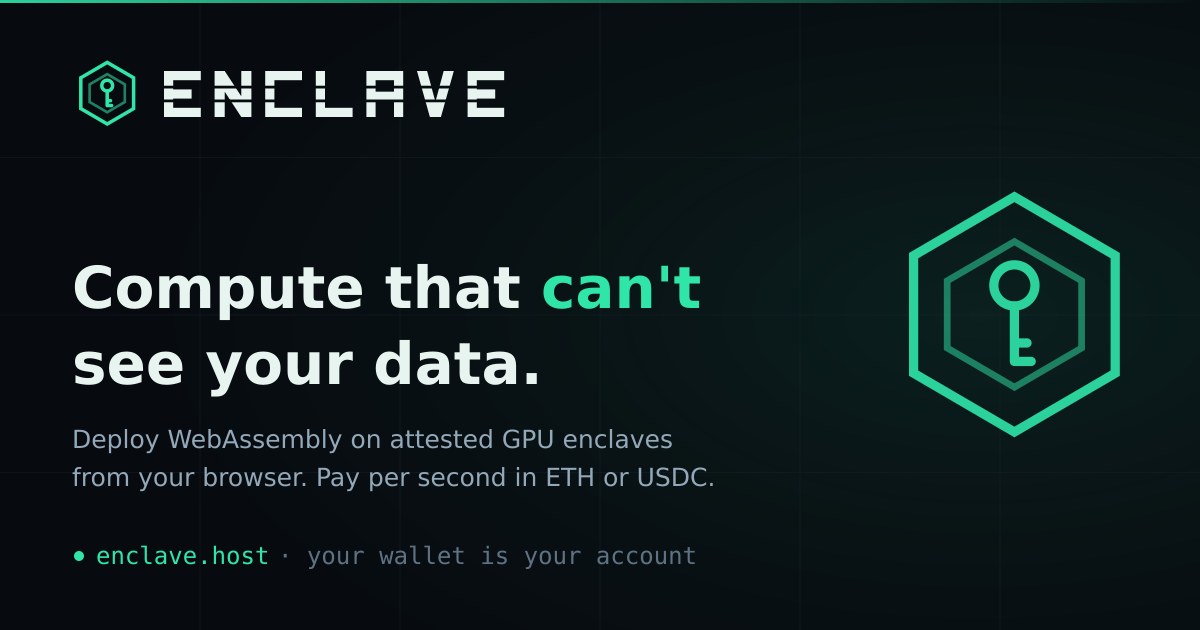
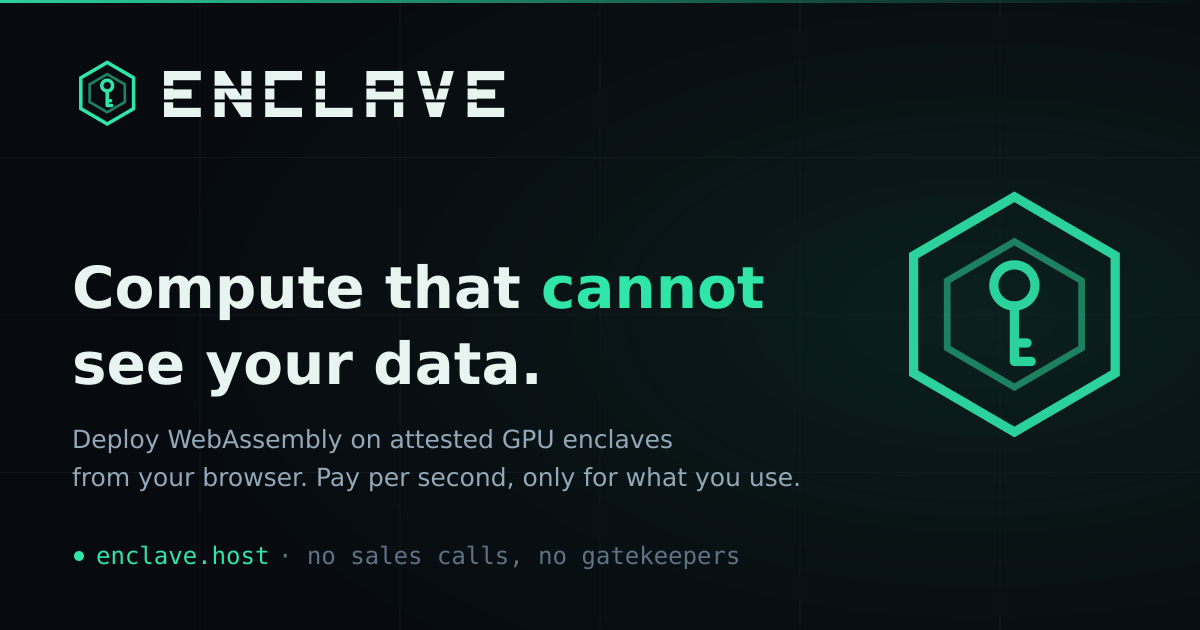
site: de-crypto the marketing surfaces
Crypto/wallet vocabulary reads as scam-signal to a mainstream visitor, so
the marketing layer stops leading with it: hero, why-card (Crypto-native
-> Pay-as-you-go), pricing head/body, flow step titles + visible
descriptions, ticker items, footer tagline, store intro, page metadata,
JSON-LD, and the OG card image (re-rendered) now talk about per-second
pay-as-you-go, passkey sign-in, and public records. The honesty stays:
payments final, prepaid runtime, publisher shares.

Unchanged on purpose: the developer docs, the publish form, and the
deploy console keep their accurate wallet/USDC mechanics - those surfaces
describe real controls for people already using them; only the pitch
stops assuming the reader wants crypto.

Changed region(s): [[0.4317, 0.7238, 0.6783, 0.7841], [0.2467, 0.8746, 0.6167, 0.9048], [0.5242, 0.4222, 0.6475, 0.5127]]

diff --git a/site/index.html b/site/index.html
@@ -6,7 +6,7 @@
 <meta name="color-scheme" content="dark" />
 <meta name="theme-color" content="#070A0F" />
 <title>Enclave · Confidential GPU Compute That Cannot See Your Data</title>
-<meta name="description" content="Compute that cannot see your data. Deploy a WebAssembly app onto a verifiable, attested enclave equipped with a flagship NVIDIA GPU, straight from your browser: pay in ETH or USDC, and verify the enclave yourself. No sales calls, no gatekeepers. Built and operated by Enclave Host, Inc." />
+<meta name="description" content="Compute that cannot see your data. Deploy a WebAssembly app onto a verifiable, attested enclave equipped with a flagship NVIDIA GPU, straight from your browser: pay per second, only for what you use, and verify the enclave yourself. No sales calls, no gatekeepers. Built and operated by Enclave Host, Inc." />
 <link rel="canonical" href="https://enclave.host/" />
 <meta name="robots" content="index,follow,max-image-preview:large" />
 <meta property="og:site_name" content="Enclave" />
@@ -14,7 +14,7 @@
 <meta property="og:type" content="website" />
 <meta property="og:url" content="https://enclave.host/" />
 <meta property="og:title" content="Enclave · Compute That Cannot See Your Data" />
-<meta property="og:description" content="Attested GPU enclaves for everyone, not just the Fortune 500. Deploy a WebAssembly app straight from your browser, pay per second in ETH or USDC, and verify the enclave yourself before sending a byte." />
+<meta property="og:description" content="Attested GPU enclaves for everyone, not just the Fortune 500. Deploy a WebAssembly app straight from your browser, pay per second for exactly what you use, and verify the enclave yourself before sending a byte." />
 <meta property="og:image" content="https://enclave.host/assets/og.png" />
 <meta property="og:image:width" content="1200" />
 <meta property="og:image:height" content="630" />
@@ -80,7 +80,7 @@
       "@id": "https://enclave.host/#website",
       "url": "https://enclave.host/",
       "name": "Enclave",
-      "description": "Compute that cannot see your data: deploy WebAssembly apps onto verifiable, attested confidential enclaves with flagship NVIDIA GPUs, paid per second in ETH or USDC.",
+      "description": "Compute that cannot see your data: deploy WebAssembly apps onto verifiable, attested confidential enclaves with flagship NVIDIA GPUs, paid per second.",
       "publisher": { "@id": "https://enclave.host/#org" }
     },
     {
@@ -91,7 +91,7 @@
       "provider": { "@id": "https://enclave.host/#org" },
       "url": "https://enclave.host/",
       "areaServed": "Worldwide",
-      "description": "On-demand attested enclaves with CPU and GPU confidential computing, running WebAssembly apps with GPU shares metered per second and paid on-chain in ETH or USDC.",
+      "description": "On-demand attested enclaves with CPU and GPU confidential computing, running WebAssembly apps with GPU shares metered and paid per second.",
       "offers": [
         {
           "@type": "Offer",
@@ -119,7 +119,7 @@
     <div class="hero-copy">
       <span class="eyebrow">Trustless, attested enclaves · API v1</span>
       <h1>Compute that <span class="hl">cannot</span><br>see your&nbsp;data.</h1>
-      <p class="lede">The hardware that used to hide behind enterprise sales calls is now one click away: deploy a <b>WebAssembly app</b> onto a confidential enclave equipped with a <b>flagship NVIDIA GPU</b>, straight from your browser. Pay per second in <b>ETH or USDC</b>. Your wallet is your account. Then check the cryptographic attestation <b>yourself</b> before you send a single byte of data.</p>
+      <p class="lede">The hardware that used to hide behind enterprise sales calls is now one click away: deploy a <b>WebAssembly app</b> onto a confidential enclave equipped with a <b>flagship NVIDIA GPU</b>, straight from your browser. Pay <b>per second</b>, only while it runs: no subscription, no minimums. Then check the cryptographic attestation <b>yourself</b> before you send a single byte of data.</p>
       <div class="hero-cta">
         <a href="apps" class="btn btn-primary">Deploy an app <span class="arr" aria-hidden="true">→</span></a>
         <a href="develop#api" class="btn btn-ghost">Read the API</a>
@@ -143,7 +143,7 @@
 <section id="why" data-view="overview" aria-label="Principles">
   <div class="wrap">
     <c-section-head eyebrow="The model" heading="Don't trust the operator. Measure it.">
-      <p>Enclave runs your WebAssembly app inside a hardware-isolated, attested enclave with a confidential GPU wired into it, so the operator can't read your memory, your keys, or your traffic, and you don't have to take our word for it. Every claim on this page is something you can check on-chain or in a signed attestation. We're equally explicit about the part that <i>isn't</i> hardware-enforced: how tenants are kept apart from each other on a shared GPU. <a href="#isolation">See exactly how isolation works ↓</a></p>
+      <p>Enclave runs your WebAssembly app inside a hardware-isolated, attested enclave with a confidential GPU wired into it, so the operator can't read your memory, your keys, or your traffic, and you don't have to take our word for it. Every claim on this page is something you can check yourself, in a signed attestation or a public record. We're equally explicit about the part that <i>isn't</i> hardware-enforced: how tenants are kept apart from each other on a shared GPU. <a href="#isolation">See exactly how isolation works ↓</a></p>
     </c-section-head>
     <div class="cards">
       <div class="card jade">
@@ -154,9 +154,9 @@
       </div>
       <div class="card iris">
         <div class="ic"><svg viewBox="0 0 24 24" fill="none" stroke="currentColor" stroke-width="1.7"><circle cx="12" cy="12" r="9"/><path d="M12 7v10M9.5 9.5h4a1.8 1.8 0 010 3.6H10a1.8 1.8 0 000 3.6h4.5"/></svg></div>
-        <span class="tag">wallet-native</span>
-        <h3>Crypto-native</h3>
-        <p>Your wallet is your account and nothing is custodied: every payment forwards in the same transaction - to Enclave, and for paid apps the publisher's share straight to their wallet; the contract never holds funds. It buys prepaid runtime, burned per second while your deployment runs. Payments are final: unspent time survives a stop but can't be withdrawn, so fund small and top up as you go.</p>
+        <span class="tag">pay-per-second</span>
+        <h3>Pay-as-you-go</h3>
+        <p>No subscription, no seats, no sales call: sign in with a passkey and add credit, or bring your own keys and pay directly. Either way a payment buys prepaid runtime, burned per second while your deployment runs, and for paid apps the publisher's share is delivered the same instant. Payments are final: unspent time survives a stop but can't be withdrawn, so fund small and top up as you go.</p>
       </div>
       <div class="card jade">
         <div class="ic"><svg viewBox="0 0 24 24" fill="none" stroke="currentColor" stroke-width="1.7"><rect x="3" y="5" width="18" height="14" rx="2"/><path d="M7 9l3 3-3 3M13 15h4"/></svg></div>
@@ -177,7 +177,7 @@
 <section id="how" data-view="overview" style="background:var(--bg-1);border-top:1px solid var(--line-soft);border-bottom:1px solid var(--line-soft);" aria-label="How it works">
   <div class="wrap">
     <c-section-head eyebrow="Lifecycle" heading="Five calls, start to finish.">
-      <p>The path from an empty wallet to a verified GPU endpoint. Click a step to see exactly what crosses the wire.</p>
+      <p>The path from zero to a verified GPU endpoint. Click a step to see exactly what crosses the wire.</p>
     </c-section-head>
     <c-flow></c-flow>
   </div>
@@ -233,8 +233,8 @@
 <!-- ===================== PRICING ===================== -->
 <section id="pricing" data-view="overview" style="background:var(--bg-1);border-top:1px solid var(--line-soft);border-bottom:1px solid var(--line-soft);" aria-label="Pricing">
   <div class="wrap">
-    <c-section-head eyebrow="Pricing" heading="Metered per second. Paid on-chain.">
-      <p>Deploying is <b>two dials</b> - what you rent - and <b>two rates</b> - what you pay. USDC or ETH up front buys runtime by the second; the instance runs until that time is used up, and you top up to extend it. Nothing is custodied - payments forward in the same transaction, to Enclave and, for apps that charge a publisher fee, that share straight to the publisher's wallet - and are final. Unspent time stays on the deployment's on-chain record (stop now, resume later) but isn't withdrawable, so fund in small top-ups.</p>
+    <c-section-head eyebrow="Pricing" heading="Metered per second. Pay as you go.">
+      <p>Deploying is <b>two dials</b> - what you rent - and <b>two rates</b> - what you pay. Prepaying buys runtime by the second; the instance runs until that time is used up, and you top up to extend it. Payments convert straight into runtime - for apps that charge a publisher fee, that share goes straight to the publisher - and are final. Unspent time stays on the deployment's public record (stop now, resume later) but isn't withdrawable, so fund in small top-ups.</p>
     </c-section-head>
 
     <div class="price-grid">
@@ -262,7 +262,7 @@
     <div class="contract-foot"><a class="contract-link" id="priceAddrLink" target="_blank" rel="noopener" aria-label="View the EnclaveDeployments contract on Basescan"><svg viewBox="0 0 24 24" fill="none" stroke="currentColor" stroke-width="2" stroke-linecap="round" stroke-linejoin="round" aria-hidden="true"><path d="M14 2H6a2 2 0 0 0-2 2v16a2 2 0 0 0 2 2h12a2 2 0 0 0 2-2V8z"/><polyline points="14 2 14 8 20 8"/><line x1="8" y1="13" x2="16" y2="13"/><line x1="8" y1="17" x2="13" y2="17"/></svg> contract</a></div>
 
     <div class="price-formula"><code>price = GPU% × $<span data-live-price="unit-hr" data-gpu="100">6</span>/hr &nbsp;+&nbsp; CPU% × $<span data-live-price="unit-hr" data-cpu="100">3</span>/hr &nbsp;·&nbsp; metered per second</code></div>
-    <p class="mig-note" style="margin-top:10px;">One honest rounding note: the per-second rate is settled in whole millionths of a USDC, rounded up - so the very smallest slices meter a hair above the formula (a 1%-CPU app runs at $<span data-live-price="hr4" data-cpu="1">0.0324</span>/hr rather than $<span data-live-price="lin-hr4" data-cpu="1">0.0300</span>). Every estimate shown on the deploy pages already includes this. Some store apps also charge a small hourly <b>publisher fee</b> - capped on-chain, shown in the rate before you sign, and paid straight to the app publisher's wallet.</p>
+    <p class="mig-note" style="margin-top:10px;">One honest rounding note: the per-second rate is settled in whole millionths of a dollar, rounded up - so the very smallest slices meter a hair above the formula (a 1%-CPU app runs at $<span data-live-price="hr4" data-cpu="1">0.0324</span>/hr rather than $<span data-live-price="lin-hr4" data-cpu="1">0.0300</span>). Every estimate shown on the deploy pages already includes this. Some store apps also charge a small hourly <b>publisher fee</b> - capped by the platform, shown in the rate before you pay, and paid straight to the app's publisher.</p>
 
     <div class="mig-table-wrap">
       <div class="mig-scroll">
@@ -294,7 +294,7 @@
       <div class="card jade">
         <span class="tag">the operator</span>
         <h3>Enclave Host, Inc.</h3>
-        <p>The company behind Enclave. Payments forward to it on-chain in the open, and its enclaves prove what they're running before you send them a byte - the whole point is that "trust us" never has to enter the conversation.</p>
+        <p>The company behind Enclave. Payments to it settle in the open on a public record, and its enclaves prove what they're running before you send them a byte - the whole point is that "trust us" never has to enter the conversation.</p>
         <div class="about-links">
           <a class="btn btn-ghost" href="https://github.com/EnclaveHost/enclave" target="_blank" rel="noopener">Source on GitHub <span class="arr" aria-hidden="true">↗</span></a>
           <a class="btn btn-ghost" href="mailto:support@enclave.host">support@enclave.host</a>
@@ -309,7 +309,7 @@
             <span class="f-role">Founder &amp; CEO</span>
           </div>
         </div>
-        <p>Steven is a certified application architect focused on serverless architecture, with an extensive consulting background serving large enterprise clients and a passion for decentralized systems. He designs and builds Enclave hands-on: the attested enclave stack, the on-chain contracts, and the site you're reading. Based in Arizona.</p>
+        <p>Steven is a certified application architect focused on serverless architecture, with an extensive consulting background serving large enterprise clients and a passion for decentralized systems. He designs and builds Enclave hands-on: the attested enclave stack, the settlement contracts, and the site you're reading. Based in Arizona.</p>
         <div class="about-links">
           <a class="btn btn-ghost" href="https://www.linkedin.com/in/steven-batchelor-50791627/" target="_blank" rel="noopener">LinkedIn <span class="arr" aria-hidden="true">↗</span></a>
         </div>

diff --git a/site/components/flow/flow.html b/site/components/flow/flow.html
@@ -1,10 +1,10 @@
 <div class="flow">
   <div class="steps" role="tablist" aria-label="Lifecycle steps">
-    <button class="step active" type="button" role="tab" id="flow-tab-1" aria-selected="true" tabindex="0" aria-controls="flow-detail"><span class="num">1</span><div><div class="st-t">Sign in with your wallet</div><div class="st-d">Prove control of your address, with no email and no password.</div></div></button>
-    <button class="step" type="button" role="tab" id="flow-tab-2" aria-selected="false" tabindex="-1" aria-controls="flow-detail"><span class="num">2</span><div><div class="st-t">Create a deployment</div><div class="st-d">One create() tx on EnclaveDeployments from your wallet: the app's catalog reference + two shares in 1/1000ths (the app's specs set the minimums). You own the on-chain record; it survives enclave updates.</div></div></button>
-    <button class="step" type="button" role="tab" id="flow-tab-3" aria-selected="false" tabindex="-1" aria-controls="flow-detail"><span class="num">3</span><div><div class="st-t">Fund runtime</div><div class="st-d">fundWithAuthorization (EIP-3009 USDC) or fundEth on EnclaveDeployments credits the deployment's runtime balance - the funds themselves forward in the same tx (to Enclave, and a paid app's publisher cut straight to their wallet), and payments are final. Enclaves claim funded work and serve it under leases; fund small, top up any time.</div></div></button>
+    <button class="step active" type="button" role="tab" id="flow-tab-1" aria-selected="true" tabindex="0" aria-controls="flow-detail"><span class="num">1</span><div><div class="st-t">Sign in</div><div class="st-d">Prove it's you with a key you hold - no email, no password.</div></div></button>
+    <button class="step" type="button" role="tab" id="flow-tab-2" aria-selected="false" tabindex="-1" aria-controls="flow-detail"><span class="num">2</span><div><div class="st-t">Create a deployment</div><div class="st-d">One create() call on EnclaveDeployments: the app's catalog reference + two shares in 1/1000ths (the app's specs set the minimums). You own the resulting record; it survives enclave updates.</div></div></button>
+    <button class="step" type="button" role="tab" id="flow-tab-3" aria-selected="false" tabindex="-1" aria-controls="flow-detail"><span class="num">3</span><div><div class="st-t">Fund runtime</div><div class="st-d">A payment credits the deployment's runtime balance the moment it lands (a paid app's publisher cut goes straight to the publisher), and payments are final. Enclaves claim funded work and serve it under leases; fund small, top up any time.</div></div></button>
     <button class="step" type="button" role="tab" id="flow-tab-4" aria-selected="false" tabindex="-1" aria-controls="flow-detail"><span class="num">4</span><div><div class="st-t">Verify the enclave</div><div class="st-d">Pull the CPU attestation + GPU report and check them yourself.</div></div></button>
-    <button class="step" type="button" role="tab" id="flow-tab-5" aria-selected="false" tabindex="-1" aria-controls="flow-detail"><span class="num">5</span><div><div class="st-t">Stop (or let it expire)</div><div class="st-d">Tear down and release the share. Unspent runtime stays on the on-chain record - reactivate to use it - but is never withdrawable, which is why you fund in small top-ups.</div></div></button>
+    <button class="step" type="button" role="tab" id="flow-tab-5" aria-selected="false" tabindex="-1" aria-controls="flow-detail"><span class="num">5</span><div><div class="st-t">Stop (or let it expire)</div><div class="st-d">Tear down and release the share. Unspent runtime stays on the deployment's record - reactivate to use it - but is never withdrawable, which is why you fund in small top-ups.</div></div></button>
   </div>
   <div class="flow-detail" id="flow-detail" role="tabpanel" aria-labelledby="flow-tab-1" tabindex="0"></div>
 </div>

diff --git a/site/apps.html b/site/apps.html
@@ -6,7 +6,7 @@
 <meta name="color-scheme" content="dark" />
 <meta name="theme-color" content="#070A0F" />
 <title>App Store: Deploy Wasm Apps on Confidential GPUs · Enclave</title>
-<meta name="description" content="Browse ready-to-run WebAssembly apps and deploy any of them on confidential GPU enclaves in a couple of clicks. Pay from your wallet, which is your account. Every app is a wasi:http component on IPFS, listed in the on-chain EnclaveAppCatalog on Base; publishing is one transaction." />
+<meta name="description" content="Browse ready-to-run WebAssembly apps and deploy any of them on confidential GPU enclaves in a couple of clicks. Pay per second, only for the time you use. Every app is a wasi:http component with a public, tamper-evident listing; publishing takes a minute." />
 <link rel="canonical" href="https://enclave.host/apps/" />
 <meta name="robots" content="index,follow,max-image-preview:large" />
 <meta property="og:site_name" content="Enclave" />
@@ -14,7 +14,7 @@
 <meta property="og:type" content="website" />
 <meta property="og:url" content="https://enclave.host/apps/" />
 <meta property="og:title" content="App Store: Deploy Wasm Apps on Confidential GPUs" />
-<meta property="og:description" content="Browse ready-to-run WebAssembly apps and deploy any of them on confidential GPU enclaves in a couple of clicks. Pay from your wallet, which is your account." />
+<meta property="og:description" content="Browse ready-to-run WebAssembly apps and deploy any of them on confidential GPU enclaves in a couple of clicks. Pay per second, only for the time you use." />
 <meta property="og:image" content="https://enclave.host/assets/og.png" />
 <meta property="og:image:width" content="1200" />
 <meta property="og:image:height" content="630" />
@@ -57,7 +57,7 @@
   <div class="wrap" id="storeView">
     <div class="store-hero">
       <c-section-head eyebrow="App store" heading="Simply pick an app and deploy it.">
-        <p>Browse ready-to-run apps and launch any of them on <b>private, confidential hardware</b> in a couple of clicks. Pay from your wallet for exactly the time you use - <b>your wallet is your account: no setup, no subscription</b>. And everything here is open: an app's code and listing can't be swapped out from under you, and you can <b>verify what you're running</b> yourself, before it touches your data. Built something of your own? <a href="#publish">Publishing it</a> takes a minute, and your app can charge an hourly fee that lands straight in your wallet whenever someone runs it.</p>
+        <p>Browse ready-to-run apps and launch any of them on <b>private, confidential hardware</b> in a couple of clicks. Pay for exactly the time you use - <b>no setup, no subscription</b>. And everything here is open: an app's code and listing can't be swapped out from under you, and you can <b>verify what you're running</b> yourself, before it touches your data. Built something of your own? <a href="#publish">Publishing it</a> takes a minute, and your app can charge an hourly fee that goes straight to you whenever someone runs it.</p>
       </c-section-head>
       <!-- featured slot: the highest standing per-view bid (EnclaveFeatured),
            editorial pick until the contract is configured - apps.js renders it -->

diff --git a/site/components/ticker/ticker.html b/site/components/ticker/ticker.html
@@ -1,4 +1,4 @@
 <div class="ticker">
-  <div class="ticker-track" aria-hidden="true"><span class="it"><b>Can't see your data</b> · sealed, attested compute · no sales calls, no gatekeepers</span><span class="it"><b>Hardware TEEs</b> · CPU + GPU confidential computing</span><span class="it"><b>Per-second</b> metering, settled on-chain</span><span class="it"><b>TLS</b> terminates inside the enclave</span><span class="it"><b>Flagship NVIDIA GPUs</b> · rent 1-100% of a card</span><span class="it"><b>Wasm apps</b> · wasi:http, sandboxed in the enclave</span><span class="it"><b>Wallet-native</b> · your wallet is your account</span><span class="it"><b>CORS-enabled</b> · drive it from the browser</span><span class="it"><b>Per-tenant</b> Wasm sandbox + process isolation · VRAM zeroed before reuse</span><span class="it"><b>Verify the report</b> before you connect</span><span class="it"><b>No custody</b> · payments forward straight through · top up to extend</span></div>
+  <div class="ticker-track" aria-hidden="true"><span class="it"><b>Can't see your data</b> · sealed, attested compute · no sales calls, no gatekeepers</span><span class="it"><b>Hardware TEEs</b> · CPU + GPU confidential computing</span><span class="it"><b>Per-second</b> metering · pay only for what you use</span><span class="it"><b>TLS</b> terminates inside the enclave</span><span class="it"><b>Flagship NVIDIA GPUs</b> · rent 1-100% of a card</span><span class="it"><b>Wasm apps</b> · wasi:http, sandboxed in the enclave</span><span class="it"><b>Passkey sign-in</b> · no email, no password</span><span class="it"><b>CORS-enabled</b> · drive it from the browser</span><span class="it"><b>Per-tenant</b> Wasm sandbox + process isolation · VRAM zeroed before reuse</span><span class="it"><b>Verify the report</b> before you connect</span><span class="it"><b>No custody</b> · payments forward straight through · top up to extend</span></div>
   <button class="ticker-pause" type="button" aria-pressed="false" aria-label="Pause the facts ticker">⏸</button>
 </div>

diff --git a/site/components/footer/footer.html b/site/components/footer/footer.html
@@ -11,7 +11,7 @@
           </svg>
           <svg class="nm" viewBox="0 0 148 20" fill="currentColor" aria-hidden="true"><mask id="wmkF"><rect width="148" height="20" fill="#fff"/><rect y="6.4" width="148" height="1.2" fill="#000"/><rect y="12.4" width="148" height="1.2" fill="#000"/></mask><path mask="url(#wmkF)" d="M0 0h16v4h-16zM0 8h12v4h-12zM0 16h16v4h-16zM0 0h4v20h-4zM22 20V0h4.4l7.2 11V0h4.4v20h-4.4l-7.2-11v11zM44 0h16v4h-16zM44 16h16v4h-16zM44 0h4v20h-4zM66 0h4v20h-4zM66 16h16v4h-16zM88 0h16v4h-16zM88 0h4v20h-4zM100 0h4v20h-4zM92 9h8v4h-8zM110 0h4.4l3.6 13.4 3.6-13.4H126l-5.6 20h-4.8zM132 0h16v4h-16zM132 8h12v4h-12zM132 16h16v4h-16zM132 0h4v20h-4z"/></svg>
         </a>
-        <p>Bringing confidential compute to the people: trustless, on-demand, paid in crypto.</p>
+        <p>Bringing confidential compute to the people: trustless, on-demand, pay as you go.</p>
         <div class="foot-meta">
           <span>built + operated by Enclave Host, Inc.</span>
           <span>front-end: static, pinned to IPFS · <code>enclave.host</code></span>
